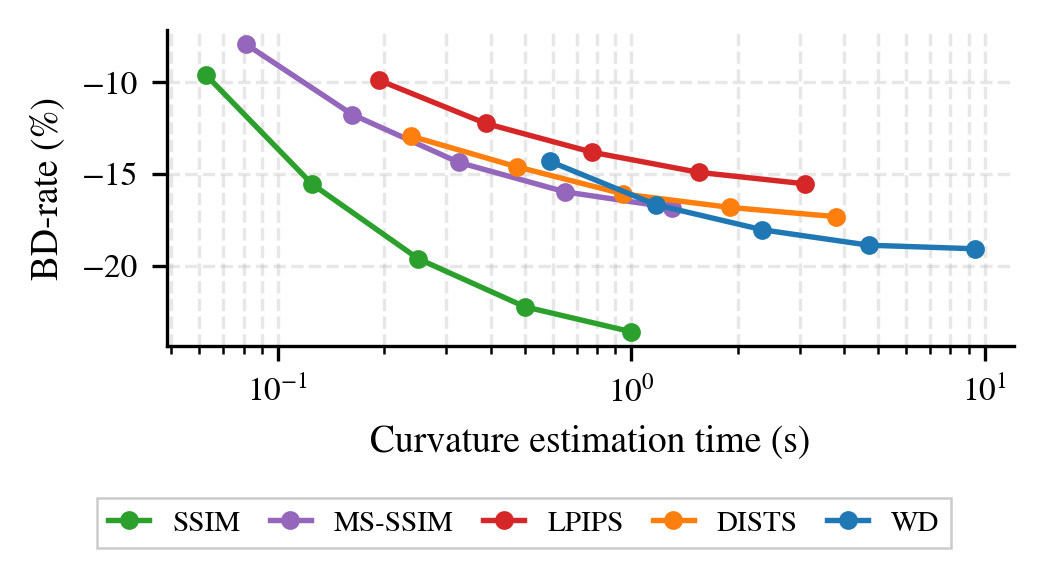
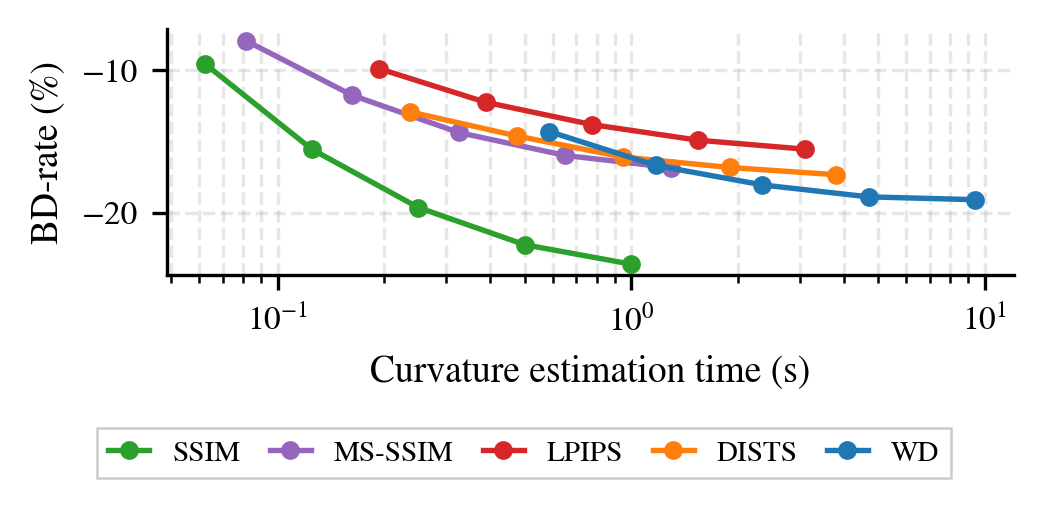
Fig. 6: shorter plot, same width

diff --git a/experiments/probes_fig.py b/experiments/probes_fig.py
@@ -6,7 +6,7 @@ y: BD-rate on the metric the map is built for, read at PerceptQPA's Y-PSNR cost 
    Table 5, which quoted each m at its own cost and tau.
 One line per metric, markers m = 16, 32, 64, 128, 256.  The encoder's own cost does not depend on m (Fig. 5).
 Series: m < 256 from carc/probes_sweep.sbatch (tags sbh8n<m>, mbh8n<m>, bh8n<m>, dgnb8j3n<m>, gnb8j3n<m>);
-m = 256 is the Table-1 block series.  Writes figures/probes.png and results/probes/fig.csv.
+m = 256 is the Table-1 block series.  Writes paper/figures/probes.png and results/probes/fig.csv.
 """
 import csv, glob, json, os, collections
 import numpy as np
@@ -56,8 +56,8 @@ if not tsec:
 # explicit placement (no tight_layout: it shrinks the axes to fit the legend inside the figure height, so the plot got
 # smaller every time the legend moved down).  Figure fractions: axes 1.25 in tall, 0.86 in below it for ticks, the
 # x label, a clear gap and the legend; the paper scales the image to the column width, so only the axes width matters.
-fig = plt.figure(figsize=(3.4, 1.85))
-ax = fig.add_axes([0.15, 0.40, 0.83, 0.57])   # axes 1.05 in tall; the 0.74 in below it is unchanged
+fig = plt.figure(figsize=(3.4, 1.62))
+ax = fig.add_axes([0.15, 0.457, 0.83, 0.506])   # axes 0.82 in tall; the 0.74 in below it (ticks, label, gap, legend) is unchanged
 out = []
 for met, (pre, full, key) in SER.items():
     xs, ys, ms = [], [], []
@@ -81,12 +81,12 @@ hd, lb = ax.get_legend_handles_labels()
 lg = fig.legend(hd, lb, loc='lower center', bbox_to_anchor=(0.5, 0.01), ncol=5, fontsize=7, frameon=True, fancybox=False,
                 handlelength=1.4, columnspacing=1.0, borderpad=0.4)
 lg.get_frame().set_edgecolor('0.75'); lg.get_frame().set_linewidth(0.6)
-os.makedirs('figures', exist_ok=True); os.makedirs('results/probes', exist_ok=True)
-fig.savefig('figures/probes.png', bbox_inches='tight', dpi=300)
+os.makedirs('paper/figures', exist_ok=True); os.makedirs('results/probes', exist_ok=True)
+fig.savefig('paper/figures/probes.png', bbox_inches='tight', dpi=300)
 with open('results/probes/fig.csv', 'w', newline='') as fh:
     w = csv.DictWriter(fh, fieldnames=list(out[0].keys())); w.writeheader(); w.writerows(out)
 print(f'at Y-PSNR cost {AT:+.2f} %   [timing: {TIMING}]')
 for r in out:
     print(f"  {NAME[r['metric']]:8s} m={r['m']:3d}  time {r['map_time_s'] if r['map_time_s']=='' else round(r['map_time_s'],2)!s:>6}  "
           f"BD {r['bd_target'] if r['bd_target']=='' else round(r['bd_target'],1)!s:>6}{'' if r['inside'] in ('',1) else '*'}  (n_tau={r['n_tau']})")
-print('-> figures/probes.png')
+print('-> paper/figures/probes.png')
